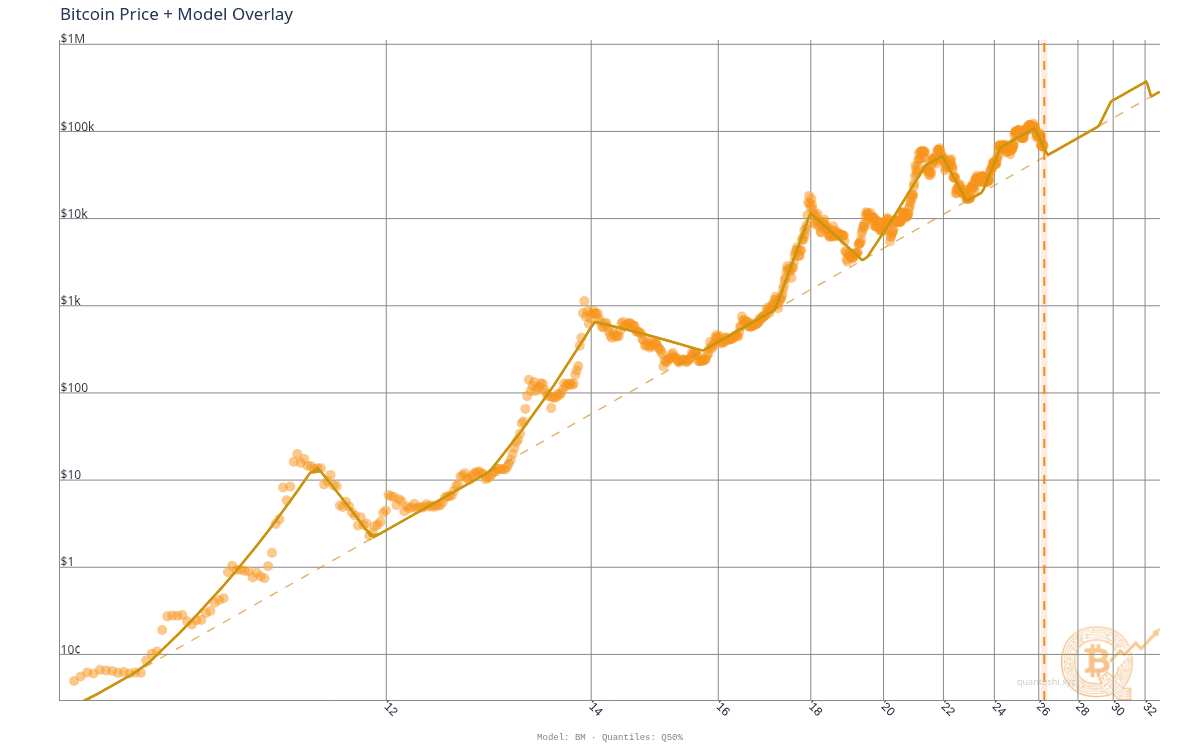
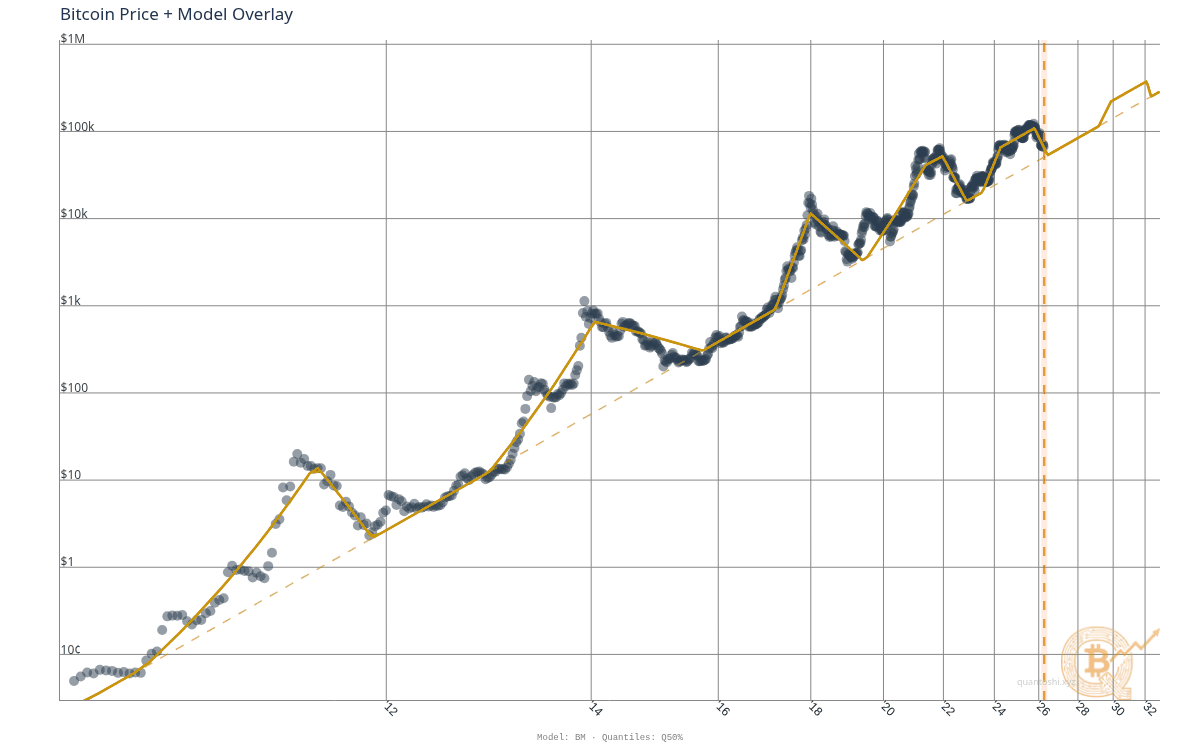
ui: change price scatter color from bitcoin orange to dark slate
The #f7931a orange was too close to the BM gold (#C8960C), making
the data points visually merge with the BM lines. Dark slate (#2C3E50)
provides strong contrast while staying readable on white.

diff --git a/btc_web/figures/bubble.py b/btc_web/figures/bubble.py
@@ -101,11 +101,11 @@ def build_bubble_figure(m: ModelData, p: dict[str, Any]) -> go.Figure:
             x_sc  = x_sc[idx]
             y_sc  = y_sc[idx]
             d_sc  = [d_sc[i] for i in idx]
-        # Single amber color for all data points (saves ~15KB of per-point color list)
+        # Dark slate gray — distinct from BM gold so data points read clearly
         traces.append(go.Scatter(
             x=list(x_sc), y=list(y_sc),
             mode="markers", name="Price data",
-            marker=dict(color="#f7931a",
+            marker=dict(color="#2C3E50",
                         size=max(2, int(p.get("pt_size", BUBBLE["pt_size"]))),
                         opacity=float(p.get("pt_alpha", BUBBLE["pt_alpha"]))),
             hovertemplate=_HOVER_FMT_USD,
